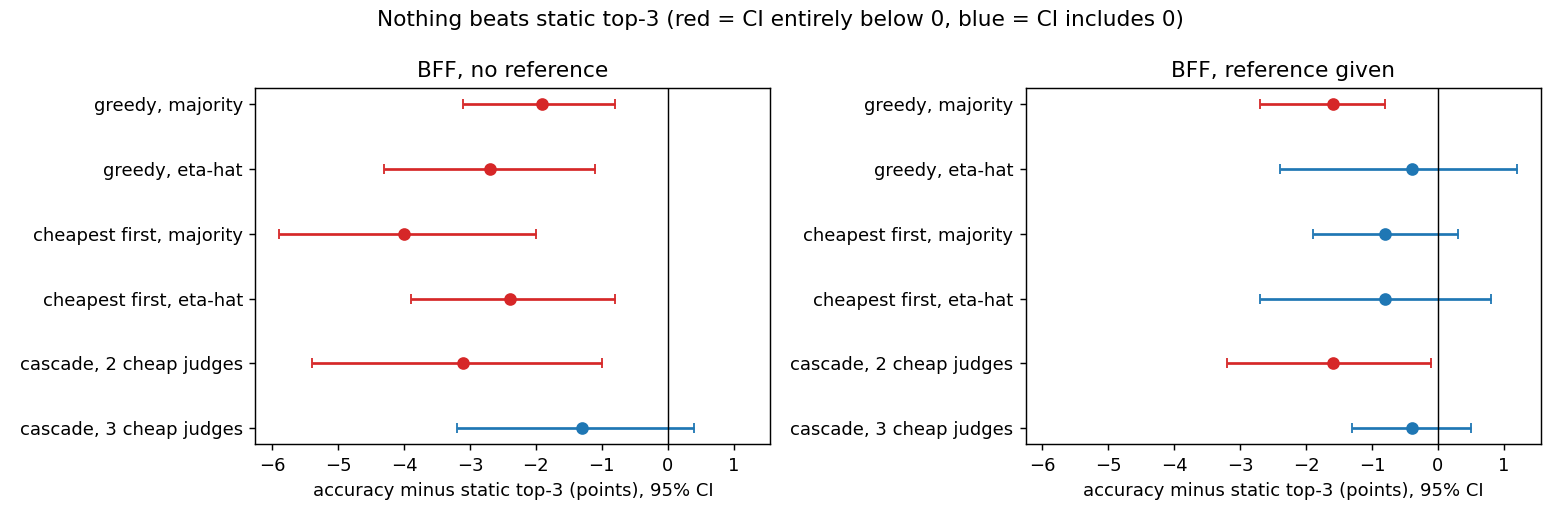
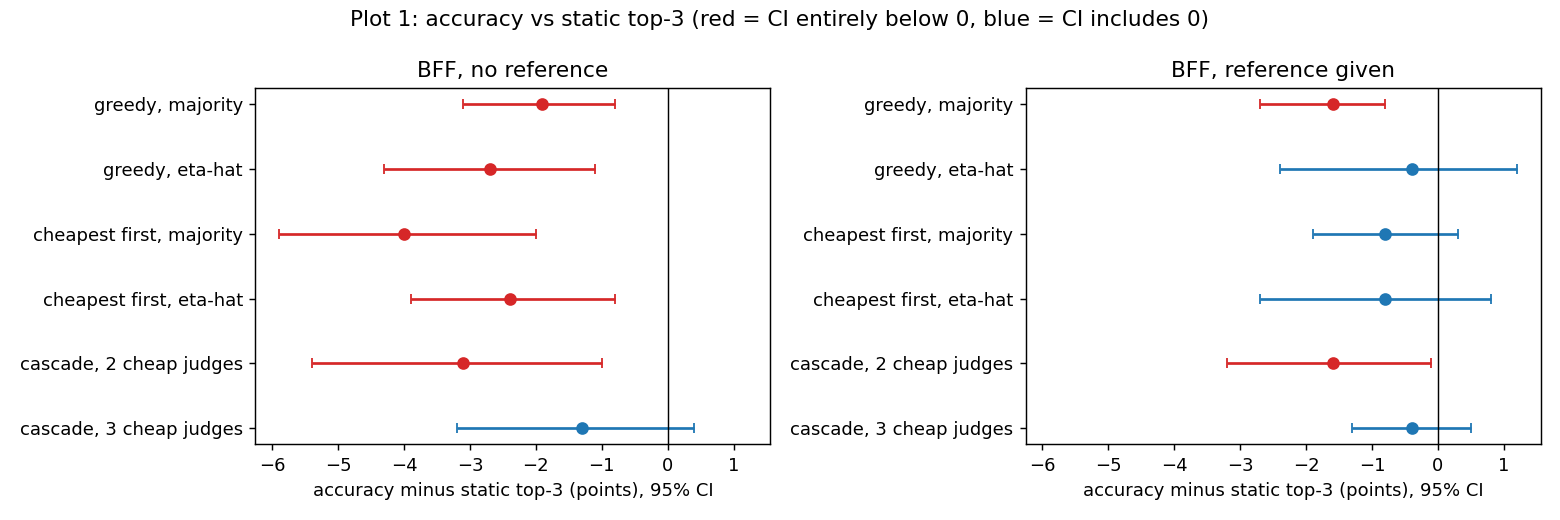
Number the plots in the role_conditioned_panels README

Changed region(s): [[0.2154, 0.0, 0.7692, 0.0615]]

diff --git a/experiments/role_conditioned_panels/make_readme_plots.py b/experiments/role_conditioned_panels/make_readme_plots.py
@@ -22,7 +22,7 @@ for ax, (title, rows) in zip(axs, pts.items()):
         ax.scatter(cost, acc, marker="s" if base else "o", color="C3" if base else "C0", s=60 if base else 35)
         ax.annotate(name, (cost, acc), fontsize=8, xytext=(4, 4), textcoords="offset points")
     ax.set_title(title); ax.set_xlabel("cost per item ($)"); ax.set_ylabel("accuracy")
-fig.suptitle("Cheap-first cascade: accuracy vs cost (cascade k,m = k cheap judges, accept if m agree; squares = baselines)")
+fig.suptitle("Plot 2: cheap-first cascade, accuracy vs cost (cascade k,m = k cheap judges, accept if m agree; squares = baselines)")
 fig.tight_layout(); fig.savefig(os.path.join(out, "cascade_cost_accuracy.png"), dpi=130); plt.close(fig)
 
 # ---- 2. accuracy difference vs static top-3, with 95% CI  (label, diff, lo, hi) in points
@@ -40,7 +40,7 @@ for ax, (title, rs) in zip(axs, rows.items()):
         ax.errorbar(d, i, xerr=[[d - lo], [hi - d]], fmt="o", color="C0" if hi >= 0 else "C3", capsize=3)
     ax.axvline(0, color="k", lw=0.8); ax.set_yticks(range(len(rs))); ax.set_yticklabels([r[0] for r in rs]); ax.invert_yaxis()
     ax.set_title(title); ax.set_xlabel("accuracy minus static top-3 (points), 95% CI")
-fig.suptitle("Nothing beats static top-3 (red = CI entirely below 0, blue = CI includes 0)")
+fig.suptitle("Plot 1: accuracy vs static top-3 (red = CI entirely below 0, blue = CI includes 0)")
 fig.tight_layout(); fig.savefig(os.path.join(out, "difference_vs_top3.png"), dpi=130); plt.close(fig)
 
 # ---- 3. cascade across 4 split seeds (accuracy difference vs top-3, points)
@@ -51,7 +51,7 @@ fig, ax = plt.subplots(figsize=(7, 4.5))
 for name, ys in series.items():
     ax.plot(seeds, ys, marker="o", label=name, ls="-" if name.startswith("3,3") else "--")
 ax.axhline(0, color="k", lw=0.8); ax.set_xticks(seeds); ax.set_xlabel("split seed"); ax.set_ylabel("accuracy minus static top-3 (points)")
-ax.set_title("Cascade (k,m) on four different splits of the same questions"); ax.legend(fontsize=8)
+ax.set_title("Plot 4: cascade (k,m) on four different splits of the same questions"); ax.legend(fontsize=8)
 fig.tight_layout(); fig.savefig(os.path.join(out, "cascade_seeds.png"), dpi=130); plt.close(fig)
 
 # ---- 4. calibration: how often judges say "correct" vs how often the label is correct
@@ -61,6 +61,6 @@ fig, ax = plt.subplots(figsize=(7, 4.5)); x = range(3)
 ax.bar([i - 0.2 for i in x], gold, 0.4, label="gold labels that are 'correct'")
 ax.bar([i + 0.2 for i in x], said, 0.4, label="judge verdicts that say 'correct' (mean of 8 judges)")
 ax.set_xticks(list(x)); ax.set_xticklabels(labels); ax.set_ylabel("share"); ax.set_ylim(0, 0.7)
-ax.set_title("How often judges say 'correct' vs how often the label is correct"); ax.legend(fontsize=8)
+ax.set_title("Plot 3: how often judges say 'correct' vs how often the label is correct", fontsize=10); ax.legend(fontsize=8)
 fig.tight_layout(); fig.savefig(os.path.join(out, "calibration.png"), dpi=130); plt.close(fig)
 print("saved", sorted(os.listdir(out)))

diff --git a/experiments/role_conditioned_panels/README.md b/experiments/role_conditioned_panels/README.md
@@ -8,9 +8,13 @@ Role-conditioned judge-panel construction on the 8-judge Tinker pool (BFF-Bench,
 - The cheap-first cascade (3 cheap judges answer, escalate to the best judge if they disagree) is the only thing that comes close to top-3 at lower cost, and only when judges are given the reference answer.
 - On RewardBench-2 the apparent gain of the eta-hat rule is a calibration effect (judges say "correct" far more often than the labels do), not panel construction.
 
-![Accuracy difference vs static top-3](figures/difference_vs_top3.png)
+**Plot 1: accuracy difference vs static top-3 for every method (dots = estimate, bars = 95% CI).**
 
-![Cascade accuracy vs cost](figures/cascade_cost_accuracy.png)
+![Plot 1: accuracy difference vs static top-3](figures/difference_vs_top3.png)
+
+**Plot 2: cascade accuracy vs cost per item (squares = baselines, dots = cascade variants).**
+
+![Plot 2: cascade accuracy vs cost](figures/cascade_cost_accuracy.png)
 
 | File | What it does |
 |---|---|
@@ -46,7 +50,9 @@ Suggested in discussion: force the cheapest judge (nemotron3-nano-30b, $0.00029/
 
 Panels get larger and cost more (BFF, no reference, majority: $0.0048 vs $0.0032 per item). The RewardBench-2 eta-hat gain is the calibration effect described in the findings doc, not panel construction (see the figure: on RewardBench-2 judges say "correct" on 46% of items but only 25% of labels are correct). Excluding the strongest judge and trying other benchmarks were done earlier (see the findings doc).
 
-![Judge 'correct' rate vs gold 'correct' rate](figures/calibration.png)
+**Plot 3: how often judges say "correct" vs how often the label is correct.**
+
+![Plot 3: judge 'correct' rate vs gold 'correct' rate](figures/calibration.png)
 
 ### Cheapest first without gpt-oss-120b
 
@@ -75,9 +81,7 @@ One of six cells reaches parity with top-3, within noise; panels grow from about
 | | cascade, 3 cheap judges | 0.921 | 0.0020 | 27% | -0.4 [-1.3, +0.5] | 47% |
 | RewardBench-2 | cascade, 3 cheap judges | 0.843 | 0.0019 | 34% | +0.6 [-0.5, +1.6] | 87% |
 
-With the reference answer, the 3-judge cascade is within noise of top-3 at 47% of its cost, and about the same cost as the best single judge with +1.1 points higher accuracy [-0.3, +2.6]. Without a reference it is within noise of the best single judge (+0.6 [-1.3, +2.4]) but costs 2.6x as much ($0.0018 vs $0.0007), because gpt-oss-120b is already one of the cheapest judges. Two cheap judges are too few.
-
-![Cascade accuracy vs cost](figures/cascade_cost_accuracy.png)
+With the reference answer, the 3-judge cascade is within noise of top-3 at 47% of its cost, and about the same cost as the best single judge with +1.1 points higher accuracy [-0.3, +2.6]. Without a reference it is within noise of the best single judge (+0.6 [-1.3, +2.4]) but costs 2.6x as much ($0.0018 vs $0.0007), because gpt-oss-120b is already one of the cheapest judges. Two cheap judges are too few. See Plot 2 at the top.
 
 ### Cascade variants and fresh-seed check
 
@@ -110,7 +114,9 @@ BFF, no reference:
 - Accepting on 3 of 4 votes matches top-3 with the reference (4-seed mean 0.0, 55% of the cost, 6% escalated) but is -5.3 without a reference and -2.4 on RewardBench-2. It was the best of about six variants tried, so treat it as unreliable.
 - RewardBench-2: the best single judge is already the most accurate and the cheapest; no cascade variant beats it.
 
-![Cascade variants across split seeds](figures/cascade_seeds.png)
+**Plot 4: the cascade on four different splits of the same questions (accuracy minus static top-3).**
+
+![Plot 4: cascade variants across split seeds](figures/cascade_seeds.png)
 
 ## Status against the suggestions
 
